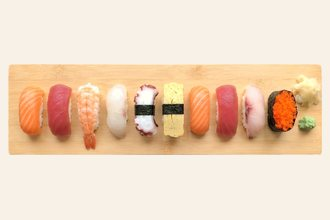
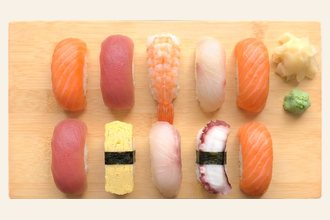
Sushi Mix: Hinweis auf Beispielfotos; Mix Nigiri in zwei Reihen à 5

diff --git a/speisekarte.html b/speisekarte.html
@@ -24,7 +24,7 @@
 <!-- страницы сайта готовятся заранее, при наведении на ссылку (Chrome) — переход почти мгновенный -->
 <script type="speculationrules">{"prerender":[{"where":{"selector_matches":"a[href$='.html'], a[href*='.html?']"},"eagerness":"moderate"}],"prefetch":[{"where":{"selector_matches":"a[href$='.html'], a[href*='.html#'], a[href*='.html?']"},"eagerness":"eager"}]}</script>
 <link rel="stylesheet" href="css/style.css?v=33">
-<script src="js/menu-data.js?v=8" defer></script>
+<script src="js/menu-data.js?v=9" defer></script>
 <script src="assets/js/lenis.min.js" defer></script>
 <script src="js/site.js?v=36" defer></script>
 </head>
@@ -74,7 +74,7 @@ document.addEventListener("DOMContentLoaded", () => {
   const dish = (d, c) => {
     const vol = d.v ? `<span class="vol">${T(d.v, d.v.replace(",", "."))}</span>` : "";
     const desc = d.dDe ? T(d.dDe, d.dEn) : "";
-    const thumb = d.img ? `<button class="dish__thumb" type="button" data-zoom="assets/img/sushi/${d.img}.webp?v=4" aria-label="Foto"><img src="assets/img/sushi/${d.img}-s.webp?v=4" alt="" loading="lazy"></button>` : "";
+    const thumb = d.img ? `<button class="dish__thumb" type="button" data-zoom="assets/img/sushi/${d.img}.webp?v=5" aria-label="Foto"><img src="assets/img/sushi/${d.img}-s.webp?v=5" alt="" loading="lazy"></button>` : "";
     return `<div class="dish${d.img ? " dish--img" : ""}${d.hl ? " dish--hl" : ""}">
       ${thumb}
       <h3>${T(d.de, d.en)}${d.z ? `<sup>${d.z}</sup>` : ""}</h3>

diff --git a/js/menu-data.js b/js/menu-data.js
@@ -65,7 +65,7 @@ const MENU = [
         { img: "temaki-maguro", de: "Maguro Temaki", dDe: "Thunfisch | Gurke | Kresse", dEn: "tuna | cucumber | cress", p: "5,90" },
         { img: "temaki-california", de: "California Temaki", dDe: "Garnelen | Avocado | Gurke | Tobiko", dEn: "prawns | avocado | cucumber | tobiko", p: "5,90" },
       ] },
-    { id: "sushi-mix", de: "sushi mix", en: "sushi mix",
+    { id: "sushi-mix", de: "sushi mix", en: "sushi mix", noteDe: "Die Fotos zeigen Beispiele der Anrichtung. Die Zusammenstellung wechselt und kann abweichen.", noteEn: "Photos show example servings. The selection changes and may differ.",
       items: [
         { img: "mix-lamondi", hl: true, de: "Sushi Mix lamondi", dDe: "14 Stück, verschiedene Makis und Nigiris", dEn: "14 pieces, assorted maki and nigiri", p: "15,90" },
         { img: "mix-maki", de: "Sushi Mix Maki", dDe: "14 Stück, verschiedene Makis", dEn: "14 pieces, assorted maki", p: "12,90" },
